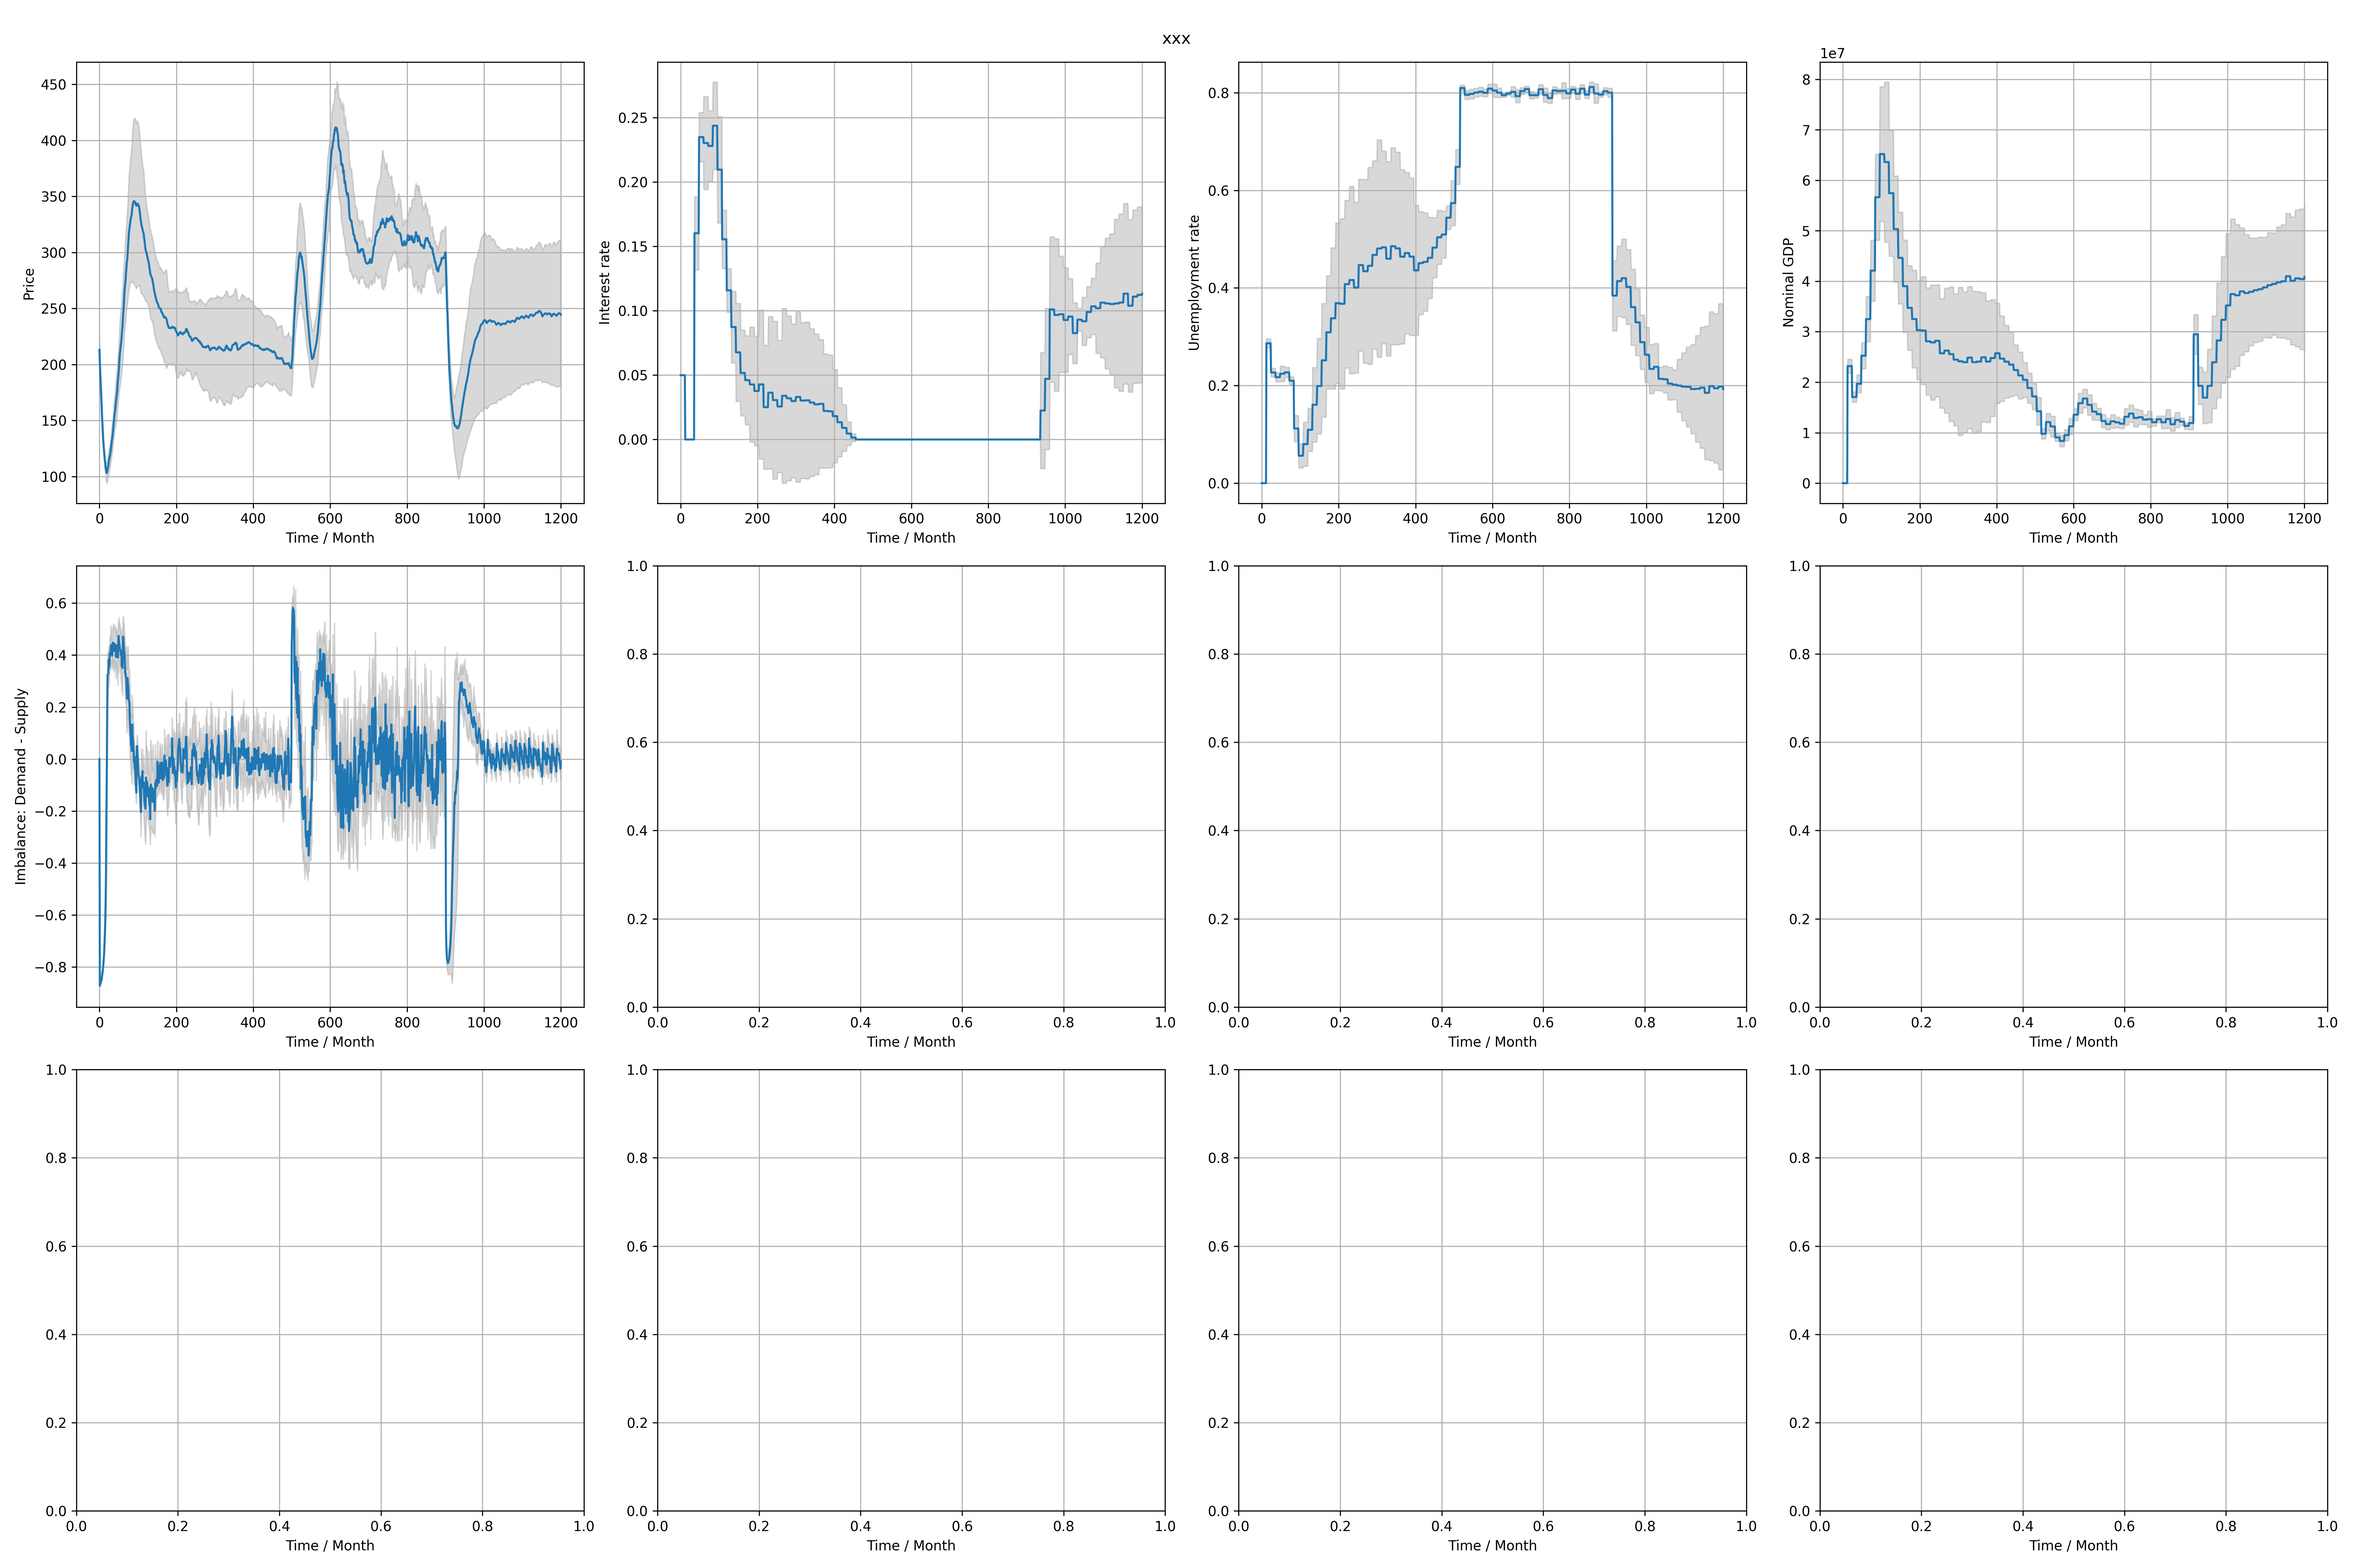
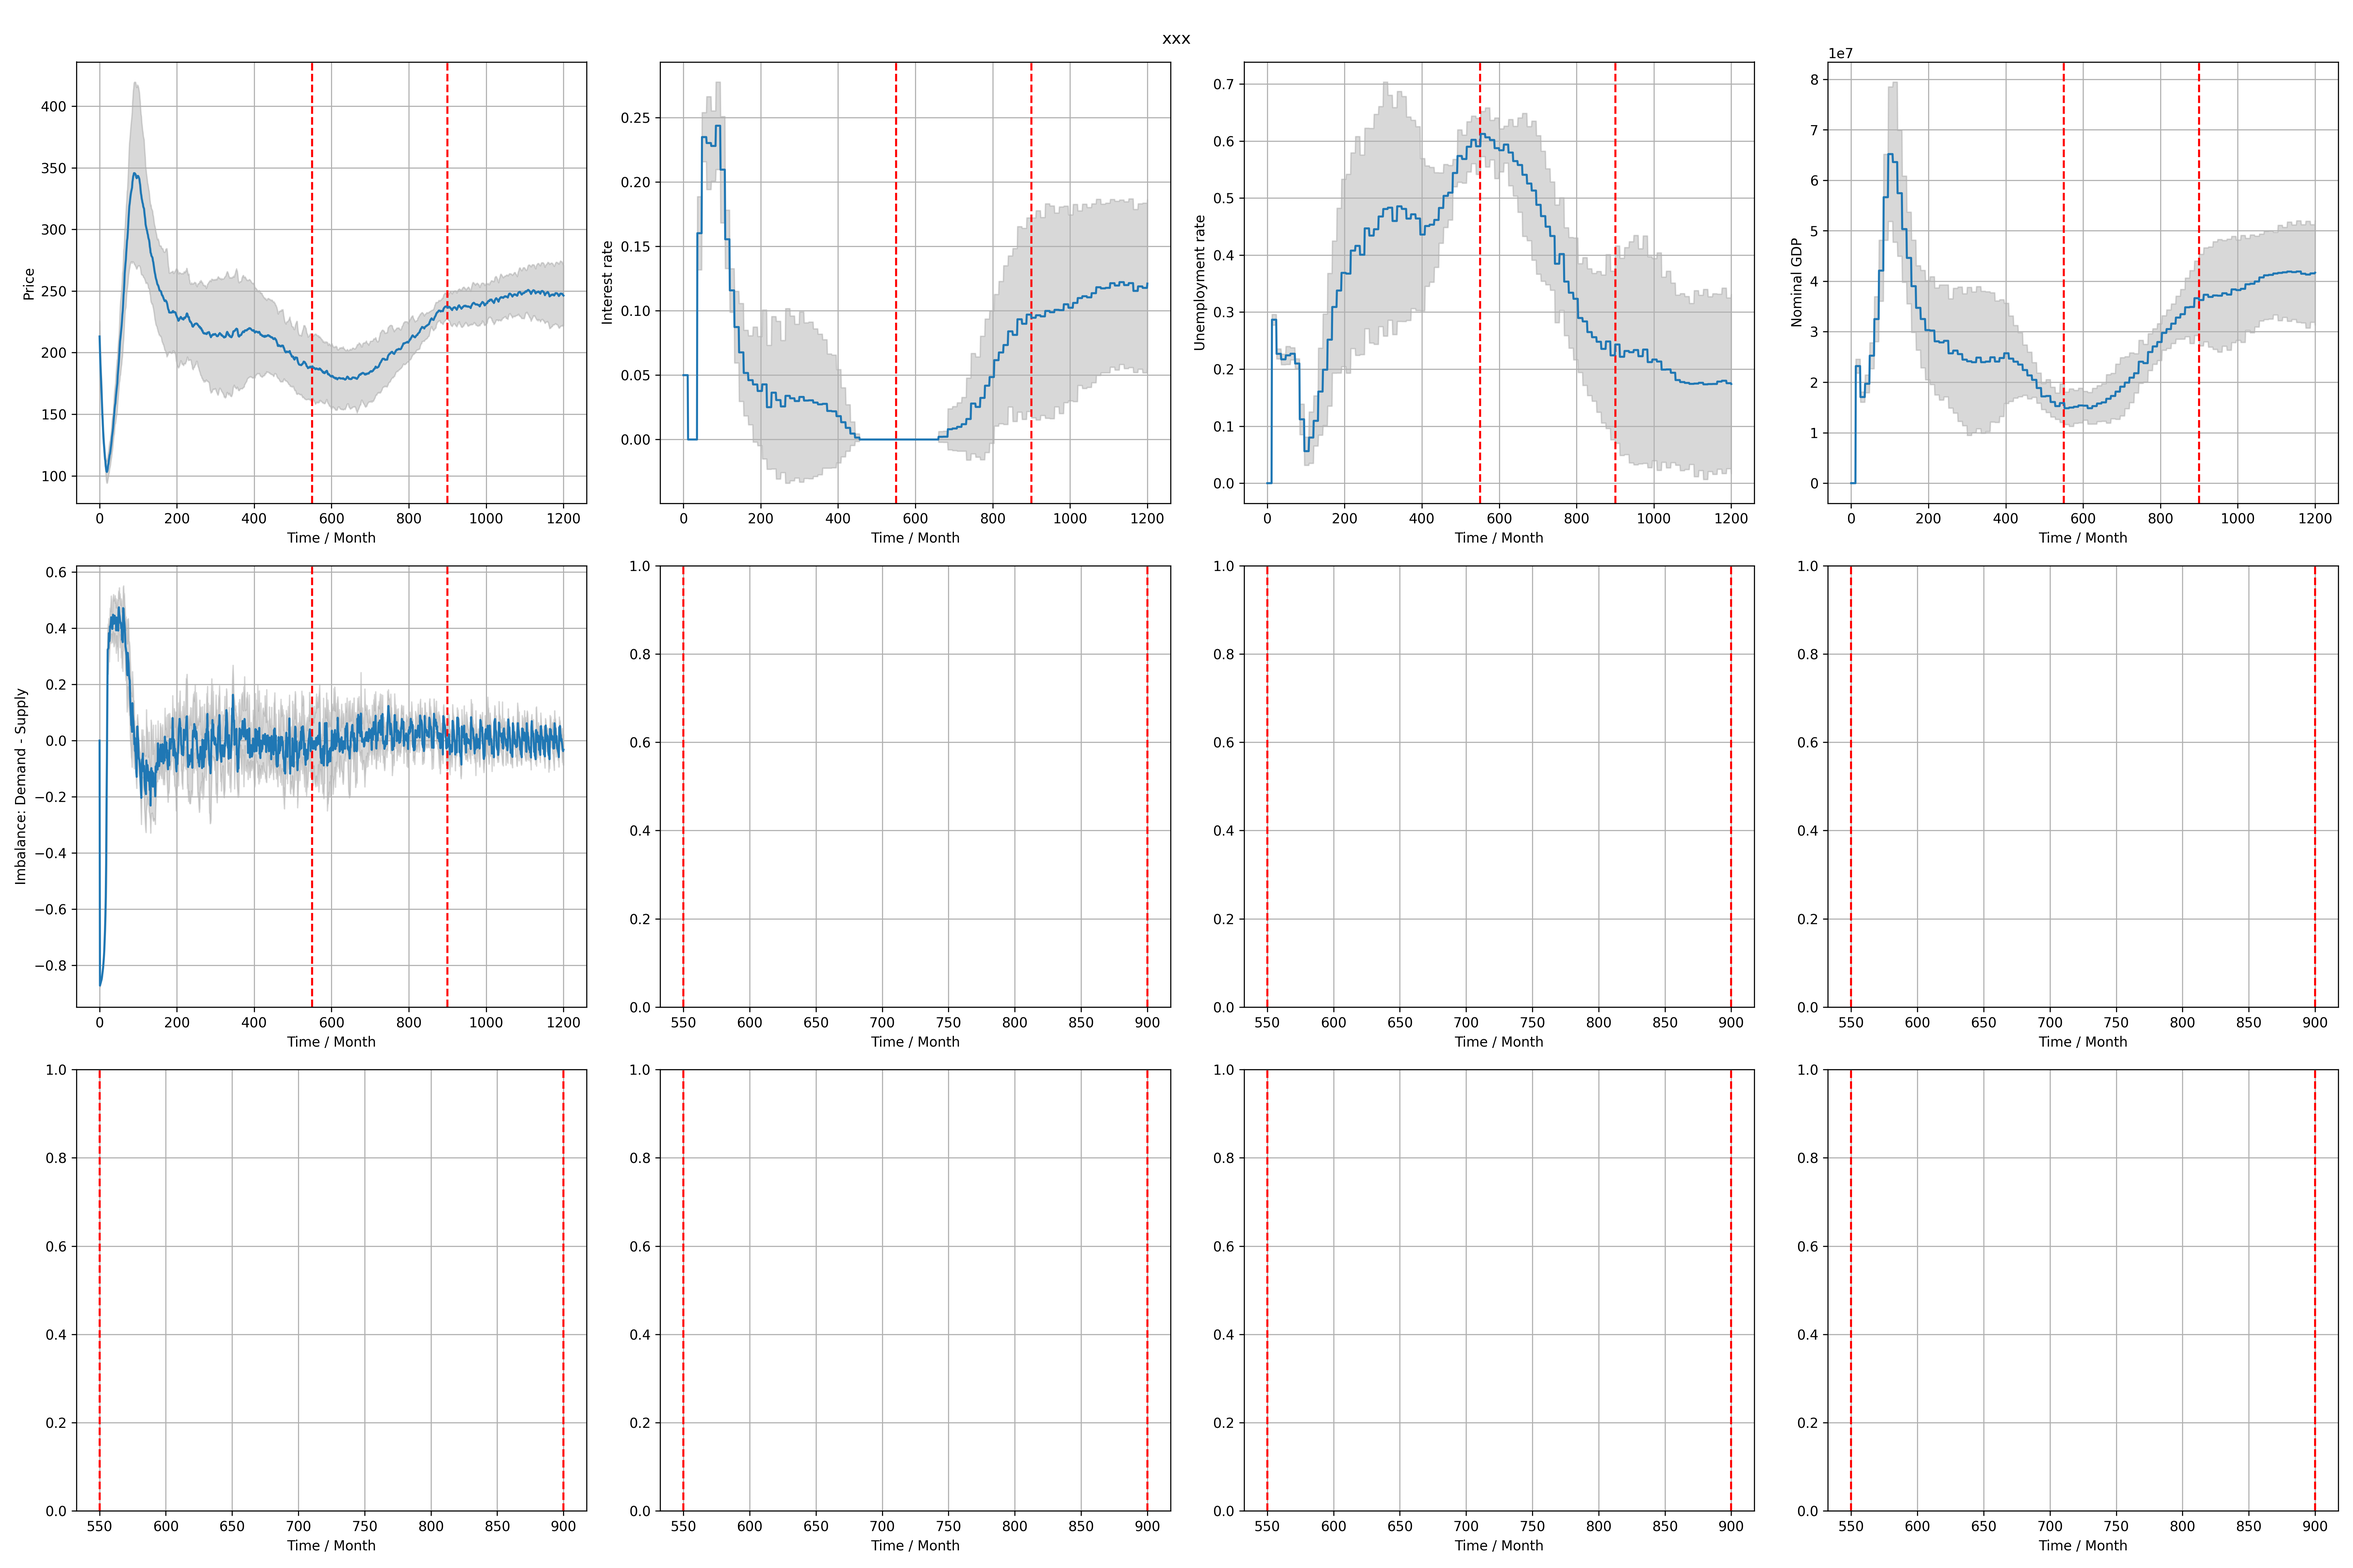
plot_bar

diff --git a/utils.py b/utils.py
@@ -79,13 +79,16 @@ def unemployment(log:dict):
         unemployment_cnt += state.count(0)
     return unemployment_cnt / (12 * len(state))
 
-def plot_bar(img_name:str, logs:list[dict], config:Configuration):
+def plot_bar(img_name:str, logs:list[dict], logs_compare:list[dict], config:Configuration):
     import matplotlib.pyplot as plt
     fig, axs = plt.subplots(3, 4, figsize=(24, 16))
     fig.suptitle('xxx')
     for i in range(3):
         for j in range(4):
             axs[i, j].set_xlabel('Time / Month'); axs[i, j].grid()
+            axs[i, j].axvline(x=550, color='r', linestyle='--')
+            axs[i, j].axvline(x=900, color='r', linestyle='--')
+            
     
     prices = np.array([[log[key]['price'] for key in log.keys()] for log in logs])
     prices_mean = np.mean(prices, axis=0)
@@ -107,11 +110,12 @@ def plot_bar(img_name:str, logs:list[dict], config:Configuration):
     um_rates_min = um_rates_mean - um_rates_std
     um_rates_max = um_rates_mean + um_rates_std
     
-    GDPs = [[log[key]['GDP'] for key in log.keys()] for log in logs]
-    GDPs_mean = np.mean(GDPs, axis=0)
-    GDPs_std = np.std(GDPs, axis=0)
-    GDPs_min = GDPs_mean - GDPs_std
-    GDPs_max = GDPs_mean + GDPs_std
+    inflation_rates = [[log[key]['inflation_rate'] for key in log.keys()] for log in logs]
+    inflation_rates_mean = np.mean(inflation_rates, axis=0)
+    inflation_rates_std = np.std(inflation_rates, axis=0)
+    inflation_rates_min = inflation_rates_mean - inflation_rates_std
+    inflation_rates_max = inflation_rates_mean + inflation_rates_std
+    
     
     imbas = [[log[key]['imbalance'] for key in log.keys()] for log in logs]
     imbas_mean = np.mean(imbas, axis=0)
@@ -119,22 +123,121 @@ def plot_bar(img_name:str, logs:list[dict], config:Configuration):
     imbas_min = imbas_mean - imbas_std
     imbas_max = imbas_mean + imbas_std
     
+    productions = [[log[key]['production'] for key in log.keys()] for log in logs]
+    productions_mean = np.mean(productions, axis=0)
+    productions_std = np.std(productions, axis=0)
+    productions_min = productions_mean - productions_std
+    productions_max = productions_mean + productions_std
     
-    axs[0, 0].plot(x, prices_mean); axs[0, 0].set_ylabel('Price')
-    axs[0, 0].fill_between(x, prices_min, prices_max, color='gray', alpha=0.3)
+    GDPs = [[log[key]['GDP'] for key in log.keys()] for log in logs]
+    GDPs_mean = np.mean(GDPs, axis=0)
+    GDPs_std = np.std(GDPs, axis=0)
+    GDPs_min = GDPs_mean - GDPs_std
+    GDPs_max = GDPs_mean + GDPs_std
     
-    axs[0, 1].plot(x, rates_mean); axs[0, 1].set_ylabel('Interest rate')
-    axs[0, 1].fill_between(x, rates_min, rates_max, color='gray', alpha=0.3)
+    avg_wages = [[log[key]['avg_wage'] for key in log.keys()] for log in logs]
+    avg_wages_mean = np.mean(avg_wages, axis=0)
+    avg_wages_std = np.std(avg_wages, axis=0)
+    avg_wages_min = avg_wages_mean - avg_wages_std
+    avg_wages_max = avg_wages_mean + avg_wages_std
     
-    axs[0, 2].plot(x, um_rates_mean); axs[0, 2].set_ylabel('Unemployment rate')
-    axs[0, 2].fill_between(x, um_rates_min, um_rates_max, color='gray', alpha=0.3)
+    axs[0, 0].plot(x, prices_mean); axs[0, 0].set_ylabel('Price', fontsize=14)
+    axs[0, 0].fill_between(x, prices_min, prices_max, color='red', alpha=0.3)
     
-    axs[0, 3].plot(x, GDPs_mean); axs[0, 3].set_ylabel('Nominal GDP')
-    axs[0, 3].fill_between(x, GDPs_min, GDPs_max, color='gray', alpha=0.3)
+    axs[0, 1].plot(x, rates_mean); axs[0, 1].set_ylabel('Interest rate', fontsize=14)
+    axs[0, 1].fill_between(x, rates_min, rates_max, color='red', alpha=0.3)
     
-    axs[1, 0].plot(x, imbas_mean); axs[1, 0].set_ylabel('Imbalance: Demand - Supply')
-    axs[1, 0].fill_between(x, imbas_min, imbas_max, color='gray', alpha=0.3)
+    axs[0, 2].plot(x, um_rates_mean); axs[0, 2].set_ylabel('Unemployment rate', fontsize=14)
+    axs[0, 2].fill_between(x, um_rates_min, um_rates_max, color='red', alpha=0.3)
     
+    axs[0, 3].plot(x, inflation_rates_mean); axs[0, 3].set_ylabel('Inflation rate', fontsize=14)
+    axs[0, 3].fill_between(x, inflation_rates_min, inflation_rates_max, color='red', alpha=0.3)
+    
+    axs[1, 0].plot(x, imbas_mean); axs[1, 0].set_ylabel('Imbalance: Demand - Supply', fontsize=14)
+    axs[1, 0].fill_between(x, imbas_min, imbas_max, color='red', alpha=0.3)
+    
+    axs[1, 2].plot(x, productions_mean); axs[1, 2].set_ylabel('Production', fontsize=14)
+    axs[1, 2].fill_between(x, productions_min, productions_max, color='red', alpha=0.3)
+    
+    axs[1, 3].plot(x, GDPs_mean); axs[1, 3].set_ylabel('Nominal GDP', fontsize=14)
+    axs[1, 3].fill_between(x, GDPs_min, GDPs_max, color='red', alpha=0.3)
+    
+    axs[2, 1].plot(x, avg_wages_mean); axs[2, 1].set_ylabel('Avg wage', fontsize=14)
+    axs[2, 1].fill_between(x, avg_wages_min, avg_wages_max, color='red', alpha=0.3)
+    if logs_compare is not None:
+        prices = np.array([[log[key]['price'] for key in log.keys()] for log in logs_compare])
+        prices_mean = np.mean(prices, axis=0)
+        prices_std = np.std(prices, axis=0)
+        x = list(range(len(prices[0])))
+        prices_min = prices_mean - prices_std
+        prices_max = prices_mean + prices_std
+        
+        
+        rates = np.array([[log[key]['rate'] for key in log.keys()] for log in logs_compare])
+        rates_mean = np.mean(rates, axis=0)
+        rates_std = np.std(rates, axis=0)
+        rates_min = rates_mean - rates_std
+        rates_max = rates_mean + rates_std
+        
+        um_rates = [[log[key]['unemployment_rate'] for key in log.keys()] for log in logs_compare]
+        um_rates_mean = np.mean(um_rates, axis=0)
+        um_rates_std = np.std(um_rates, axis=0)
+        um_rates_min = um_rates_mean - um_rates_std
+        um_rates_max = um_rates_mean + um_rates_std
+        
+        inflation_rates = [[log[key]['inflation_rate'] for key in log.keys()] for log in logs_compare]
+        inflation_rates_mean = np.mean(inflation_rates, axis=0)
+        inflation_rates_std = np.std(inflation_rates, axis=0)
+        inflation_rates_min = inflation_rates_mean - inflation_rates_std
+        inflation_rates_max = inflation_rates_mean + inflation_rates_std
+        
+        imbas = [[log[key]['imbalance'] for key in log.keys()] for log in logs_compare]
+        imbas_mean = np.mean(imbas, axis=0)
+        imbas_std = np.std(imbas, axis=0)
+        imbas_min = imbas_mean - imbas_std
+        imbas_max = imbas_mean + imbas_std
+        
+        productions = [[log[key]['production'] for key in log.keys()] for log in logs_compare]
+        productions_mean = np.mean(productions, axis=0)
+        productions_std = np.std(productions, axis=0)
+        productions_min = productions_mean - productions_std
+        productions_max = productions_mean + productions_std
+        
+        GDPs = [[log[key]['GDP'] for key in log.keys()] for log in logs_compare]
+        GDPs_mean = np.mean(GDPs, axis=0)
+        GDPs_std = np.std(GDPs, axis=0)
+        GDPs_min = GDPs_mean - GDPs_std
+        GDPs_max = GDPs_mean + GDPs_std
+        
+        avg_wages = [[log[key]['avg_wage'] for key in log.keys()] for log in logs_compare]
+        avg_wages_mean = np.mean(avg_wages, axis=0)
+        avg_wages_std = np.std(avg_wages, axis=0)
+        avg_wages_min = avg_wages_mean - avg_wages_std
+        avg_wages_max = avg_wages_mean + avg_wages_std
+        
+        axs[0, 0].plot(x, prices_mean); axs[0, 0].set_ylabel('Price', fontsize=14)
+        axs[0, 0].fill_between(x, prices_min, prices_max, color='gray', alpha=0.3)
+        
+        axs[0, 1].plot(x, rates_mean); axs[0, 1].set_ylabel('Interest rate', fontsize=14)
+        axs[0, 1].fill_between(x, rates_min, rates_max, color='gray', alpha=0.3)
+        
+        axs[0, 2].plot(x, um_rates_mean); axs[0, 2].set_ylabel('Unemployment rate', fontsize=14)
+        axs[0, 2].fill_between(x, um_rates_min, um_rates_max, color='gray', alpha=0.3)
+        
+        axs[0, 3].plot(x, inflation_rates_mean); axs[0, 3].set_ylabel('Inflation rate', fontsize=14)
+        axs[0, 3].fill_between(x, inflation_rates_min, inflation_rates_max, color='gray', alpha=0.3)
+        
+        axs[1, 0].plot(x, imbas_mean); axs[1, 0].set_ylabel('Imbalance: Demand - Supply', fontsize=14)
+        axs[1, 0].fill_between(x, imbas_min, imbas_max, color='gray', alpha=0.3)
+        
+        axs[1, 2].plot(x, productions_mean); axs[1, 2].set_ylabel('Production', fontsize=14)
+        axs[1, 2].fill_between(x, productions_min, productions_max, color='gray', alpha=0.3)
+        
+        axs[1, 3].plot(x, GDPs_mean); axs[1, 3].set_ylabel('Nominal GDP', fontsize=14)
+        axs[1, 3].fill_between(x, GDPs_min, GDPs_max, color='gray', alpha=0.3)
+        
+        axs[2, 1].plot(x, avg_wages_mean); axs[2, 1].set_ylabel('Avg wage', fontsize=14)
+        axs[2, 1].fill_between(x, avg_wages_min, avg_wages_max, color='gray', alpha=0.3)
     plt.tight_layout()
     plt.savefig(img_name, dpi=300)
 

diff --git a/main.py b/main.py
@@ -130,7 +130,7 @@ class market:
     
     
 
-def simulation(config:Configuration):
+def simulation(config:Configuration, event=False):
     '''
     one episode of simulation
     '''
@@ -175,19 +175,17 @@ def simulation(config:Configuration):
         
         work_state = [a.work_decision() for a in agents] # work decision
         
-        
-        
         ################ 干 预 ################
         # 增加失业
         # 产量减少
         # GDP下降
         
-        
-        if t >= 500 and t <= 900:
-            work_state = []
-            for a in agents:
-                a.l = 1 if random.random() < 0.2 else 0
-                work_state.append(a.l)
+        if event:
+            if t >= 500 and t <= 900:
+                work_state = []
+                for a in agents:
+                    a.l = 1 if random.random() < 0.3 else 0
+                    work_state.append(a.l)
         
         production = F.produce(agents) # production
         
@@ -199,8 +197,9 @@ def simulation(config:Configuration):
         for a, w in zip(agents, wages_after_tax):
             a.z = w # update monthly income
             # print(t, a.id, w, sum(taxes), w + sum(taxes)/config.num_agents)
-            if t >= 550 and t <= 900:
-                B.deposit(a.id, w + sum(taxes)/config.num_agents + 0.03*B.deposits[a.id]) # redistribution
+            
+            if t >= 550 and t <= 900 and event and False:
+                B.deposit(a.id, w + sum(taxes)/config.num_agents + 0.04*B.deposits[a.id]) # redistribution
             else:
                 B.deposit(a.id, w + sum(taxes)/config.num_agents) # redistribution
         
@@ -286,9 +285,17 @@ if __name__ == '__main__':
     for i in range(5):
         print(f'Simulation {i+1}/5')
         config.seed += i
-        log = simulation(config)
+        log = simulation(config, event=True)
         logs.append(log)
-    plot_bar('bar.png', logs, config)
     
+    
+    config.seed = 123456
+    logs_no_event = []
+    for i in range(5):
+        print(f'Simulation {i+1}/5')
+        config.seed += i
+        log = simulation(config, event=False)
+        logs_no_event.append(log)
+    plot_bar('bar-event.png', logs, logs_no_event, config)
     # log = simulation(config)
     # plot_log('log.png', log, config)
